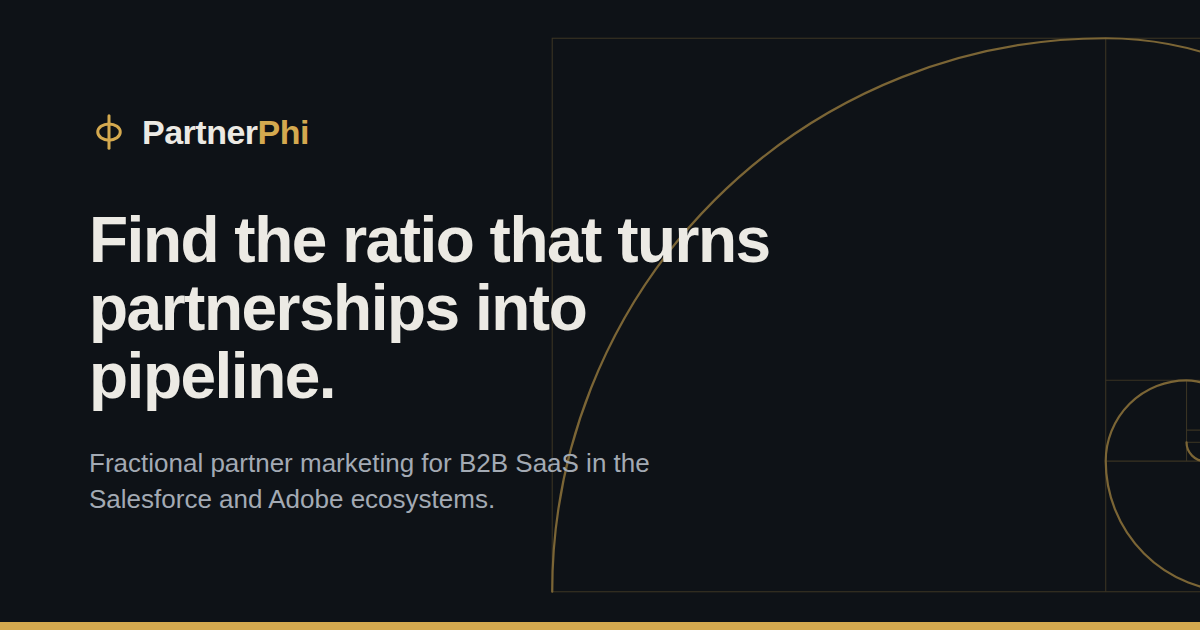
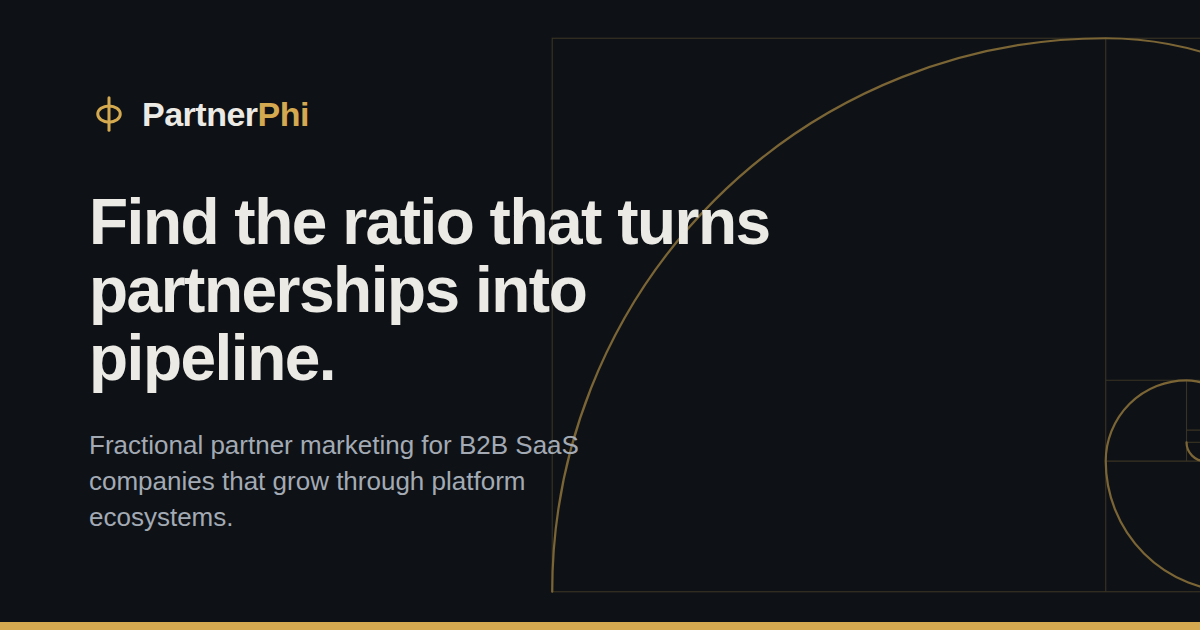
Broaden positioning beyond Salesforce and Adobe
Hero subhead, meta description and share image now say B2B SaaS companies
that grow through platform ecosystems. Experience heading names Salesforce,
Adobe, global SIs and agencies.

Claude-Session: https://claude.ai/code/session_018gGhm4xmBHskZxBHR1br6Z

Changed region(s): [[0.0617, 0.3016, 0.6475, 0.6635], [0.0617, 0.6937, 0.555, 0.8444], [0.0617, 0.1508, 0.2775, 0.2413]]

diff --git a/scripts/og-image.html b/scripts/og-image.html
@@ -12,7 +12,7 @@
   .logo span { color: #d4a94f; }
   .logo svg { width: 40px; height: 40px; color: #d4a94f; }
   h1 { font-size: 64px; line-height: 1.06; letter-spacing: -1.5px; }
-  p { margin-top: 34px; font-size: 26px; line-height: 1.4; color: #a3aab4; max-width: 620px; }
+  p { margin-top: 34px; font-size: 26px; line-height: 1.4; color: #a3aab4; max-width: 520px; }
   .rule { position: absolute; left: 0; right: 0; bottom: 0; height: 8px; background: #d4a94f; }
 </style>
 </head>
@@ -33,7 +33,7 @@
       <div>Partner<span>Phi</span></div>
     </div>
     <h1>Find the ratio that turns partnerships into pipeline.</h1>
-    <p>Fractional partner marketing for B2B SaaS in the Salesforce and Adobe ecosystems.</p>
+    <p>Fractional partner marketing for B2B SaaS companies that grow through platform ecosystems.</p>
   </div>
   <div class="rule"></div>
 </body>

diff --git a/src/config.ts b/src/config.ts
@@ -4,7 +4,7 @@ export const site = {
   name: 'PartnerPhi',
   url: 'https://partnerphi.com',
   description:
-    'Fractional partner marketing for B2B SaaS companies building in the Salesforce and Adobe ecosystems.',
+    'Fractional partner marketing for B2B SaaS companies that grow through platform ecosystems.',
   location: 'Las Vegas, NV',
 
   // Contact. Swap in the partnerphi.com address once it exists.
